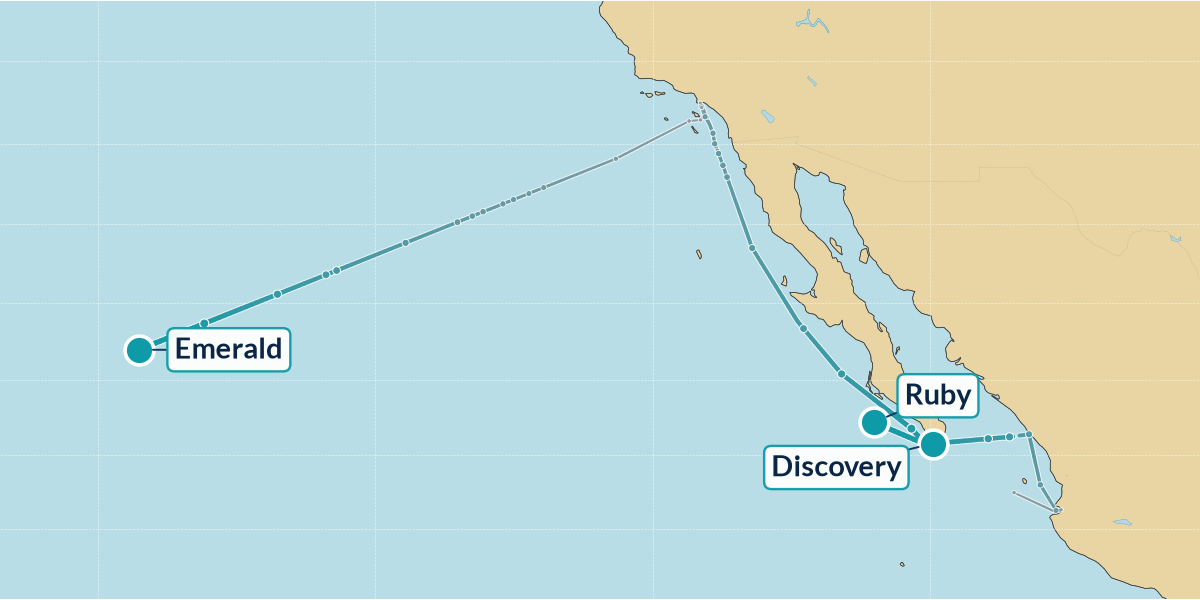
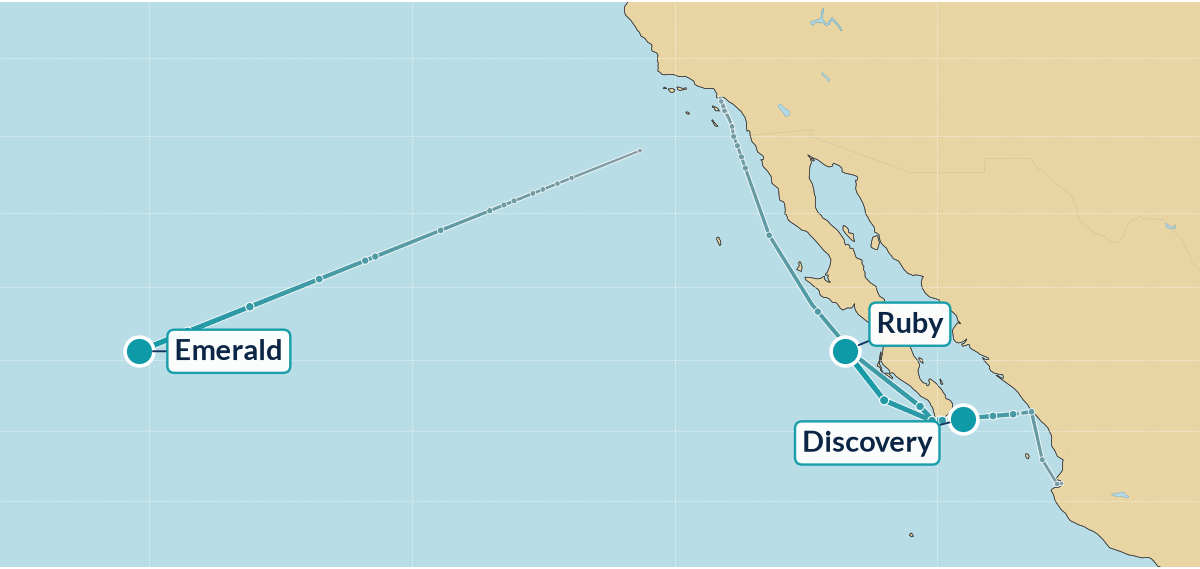
Update 10/19 23:00 PT

diff --git a/index.html b/index.html
@@ -1,48 +1,47 @@
 <!DOCTYPE html><html lang="en"><head><meta charset="utf-8"><meta name="viewport" content="width=device-width, initial-scale=1"><meta http-equiv="refresh" content="1800"><meta name="description" content="Live Princess Cruises fleet tracker"><title>Princess Patter — Monday, October 19, 2026</title></head>
 <body style="margin:0;padding:0;background-color:#dee2e8;">
-<div style="display:none;max-height:0;overflow:hidden;opacity:0;color:#dee2e8;font-size:1px;line-height:1px;">Monday, October 19, 2026 — 4:00pm PT | 17 ships | 14 at sea, 3 in port</div>
+<div style="display:none;max-height:0;overflow:hidden;opacity:0;color:#dee2e8;font-size:1px;line-height:1px;">Monday, October 19, 2026 — 11:00pm PT | 17 ships | 13 at sea, 4 in port</div>
 <table role="presentation" width="100%" cellpadding="0" cellspacing="0" border="0" bgcolor="#dee2e8" style="background-color:#dee2e8;border-collapse:collapse;"><tr><td align="center" style="padding:16px 8px;">
 <table role="presentation" width="100%" cellpadding="0" cellspacing="0" border="0" bgcolor="#fdfdfb" style="width:100%;max-width:900px;background-color:#fdfdfb;border-collapse:collapse;border:1px solid #d6dae0;">
 <tr><td bgcolor="#1d3a6b" align="left" style="background-color:#1d3a6b;padding:24px 28px 24px 28px;"><div style="font-family:Georgia, 'Times New Roman', Times, serif;font-size:40px;line-height:46px;color:#ffffff;letter-spacing:0.5px;"><span style="color:#a8b6e2;">≋</span>&nbsp;Princess Patter</div></td></tr>
-<tr><td style="padding:0;"><table role="presentation" width="100%" cellpadding="0" cellspacing="0" border="0" style="border-collapse:collapse;"><tr><td height="5" bgcolor="#6a5aa8" style="background-color:#6a5aa8;height:5px;font-size:0;line-height:0;width:60%;">&nbsp;</td><td height="5" bgcolor="#2f6db5" style="background-color:#2f6db5;height:5px;font-size:0;line-height:0;width:40%;">&nbsp;</td></tr></table></td></tr><tr><td bgcolor="#1d3a6b" style="background:linear-gradient(#1d3a6b,#2f6db5);padding:10px 16px 14px;text-align:center;"><img src="regal.png?v=202610192206" alt="Regal Princess" style="width:100%;max-width:640px;height:auto;display:block;margin:0 auto;"></td></tr>
+<tr><td style="padding:0;"><table role="presentation" width="100%" cellpadding="0" cellspacing="0" border="0" style="border-collapse:collapse;"><tr><td height="5" bgcolor="#6a5aa8" style="background-color:#6a5aa8;height:5px;font-size:0;line-height:0;width:60%;">&nbsp;</td><td height="5" bgcolor="#2f6db5" style="background-color:#2f6db5;height:5px;font-size:0;line-height:0;width:40%;">&nbsp;</td></tr></table></td></tr><tr><td bgcolor="#1d3a6b" style="background:linear-gradient(#1d3a6b,#2f6db5);padding:10px 16px 14px;text-align:center;"><img src="regal.png?v=202610192300" alt="Regal Princess" style="width:100%;max-width:640px;height:auto;display:block;margin:0 auto;"></td></tr>
 <tr><td style="padding:22px 20px 6px 20px;">
-<div style="font-family:Georgia, 'Times New Roman', Times, serif;font-style:italic;font-size:20px;line-height:26px;color:#2f6db5;">Good afternoon!</div>
+<div style="font-family:Georgia, 'Times New Roman', Times, serif;font-style:italic;font-size:20px;line-height:26px;color:#2f6db5;">Good evening!</div>
 <div style="font-family:Georgia, 'Times New Roman', Times, serif;font-weight:bold;font-size:26px;line-height:32px;color:#1d3a6b;padding-top:6px;">Monday, October 19, 2026</div>
-<div style="font-family:Helvetica, Arial, sans-serif;font-size:16px;line-height:22px;color:#2f6db5;padding-top:4px;">4:00pm PT | 17 ships | 14 at sea, 3 in port</div>
-</td></tr><tr><td style="padding:14px 20px 0 20px;"><div style="font-family:Georgia, 'Times New Roman', Times, serif;font-style:italic;font-weight:bold;font-size:18px;color:#295aa0;padding:0 4px 4px;border-bottom:1px solid #295aa0;">pacific map</div><a href="map.png?v=202610192206"><img src="map.png?v=202610192206" alt="Pacific fleet map" style="width:100%;height:auto;display:block;margin-top:8px;border-radius:12px;border:2px solid #c8dee2;"></a></td></tr>
+<div style="font-family:Helvetica, Arial, sans-serif;font-size:16px;line-height:22px;color:#2f6db5;padding-top:4px;">11:00pm PT | 17 ships | 13 at sea, 4 in port</div>
+</td></tr><tr><td style="padding:14px 20px 0 20px;"><div style="font-family:Georgia, 'Times New Roman', Times, serif;font-style:italic;font-weight:bold;font-size:18px;color:#295aa0;padding:0 4px 4px;border-bottom:1px solid #295aa0;">pacific map</div><a href="map.png?v=202610192300"><img src="map.png?v=202610192300" alt="Pacific fleet map" style="width:100%;height:auto;display:block;margin-top:8px;border-radius:12px;border:2px solid #c8dee2;"></a></td></tr>
 <tr><td style="padding:14px 20px 4px 20px;">
 <table role="presentation" width="100%" cellpadding="0" cellspacing="0" border="0" style="border-collapse:collapse;width:100%;font-family:Helvetica, Arial, sans-serif;font-size:15px;line-height:20px;color:#262c38;">
 <tr bgcolor="#2f6db5" style="background-color:#2f6db5;"><td style="font-size:14px;line-height:18px;font-weight:bold;color:#ffffff;text-align:left;padding:9px 8px;padding-left:10px;" colspan="2">Ship</td><td style="font-size:14px;line-height:18px;font-weight:bold;color:#ffffff;text-align:left;padding:9px 8px;">Where</td><td style="font-size:14px;line-height:18px;font-weight:bold;color:#ffffff;text-align:left;padding:9px 8px;">Next Port</td></tr>
 <tr><td colspan="4" style="padding:14px 4px 4px 4px;border-bottom:1px solid #295aa0;font-family:Georgia, 'Times New Roman', Times, serif;font-style:italic;font-weight:bold;font-size:18px;line-height:22px;color:#295aa0;">canada &amp; new england</td></tr>
-<tr bgcolor="#eef0f3" style="background-color:#eef0f3;"><td width="18" style="padding:7px 0 7px 8px;vertical-align:top;width:18px;color:#1a9a9a;font-size:18px;">&nbsp;</td><td style="padding:7px 8px;vertical-align:top;"><b style="color:#1d3a6b;">Majestic</b></td><td style="padding:7px 8px;vertical-align:top;">Boston <span style="white-space:nowrap;font-size:12px;color:#707884;" title="Forecast high/low">🌙&thinsp;40°</span> <span style="font-size:13px;color:#707884;">(5pm)</span></td><td style="padding:7px 8px;vertical-align:top;">Portland <span style="white-space:nowrap;font-size:12px;color:#707884;" title="Forecast high/low">☁&thinsp;69°/48°</span> <span style="font-size:13px;color:#707884;">(10/20 4am)</span></td></tr>
-<tr bgcolor="#ffffff" style="background-color:#ffffff;"><td width="18" style="padding:7px 0 7px 8px;vertical-align:top;width:18px;color:#1a9a9a;font-size:18px;">&nbsp;</td><td style="padding:7px 8px;vertical-align:top;"><b style="color:#1d3a6b;">Sapphire</b></td><td style="padding:7px 8px;vertical-align:top;">At Sea <span style="white-space:nowrap;font-size:12px;color:#707884;" title="Forecast high/low">☁&thinsp;48°</span> <span style="font-size:12px;color:#707884;"><span style="white-space:nowrap;">🌊 1 ft</span> &middot; <span style="white-space:nowrap;">💨 SW 11 kt</span> &middot; <span style="white-space:nowrap;">🚢 20.4 kn</span></span></td><td style="padding:7px 8px;vertical-align:top;">Saguenay <span style="white-space:nowrap;font-size:12px;color:#707884;" title="Forecast high/low">☁&thinsp;47°/31°</span> <span style="font-size:13px;color:#707884;">(10/21 5am)</span></td></tr>
+<tr bgcolor="#eef0f3" style="background-color:#eef0f3;"><td width="18" style="padding:7px 0 7px 8px;vertical-align:top;width:18px;color:#1a9a9a;font-size:18px;">&nbsp;</td><td style="padding:7px 8px;vertical-align:top;"><b style="color:#1d3a6b;">Majestic</b></td><td style="padding:7px 8px;vertical-align:top;">At Sea <span style="white-space:nowrap;font-size:12px;color:#707884;" title="Forecast high/low">🌙&thinsp;52°</span> <span style="font-size:12px;color:#707884;"><span style="white-space:nowrap;">🌊 5 ft</span> &middot; <span style="white-space:nowrap;">💨 N 10 kt</span> &middot; <span style="white-space:nowrap;">🚢 11.5 kn</span></span></td><td style="padding:7px 8px;vertical-align:top;">Portland <span style="white-space:nowrap;font-size:12px;color:#707884;" title="Forecast high/low">☁&thinsp;69°/48°</span> <span style="font-size:13px;color:#707884;">(10/20 4am)</span></td></tr>
+<tr bgcolor="#ffffff" style="background-color:#ffffff;"><td width="18" style="padding:7px 0 7px 8px;vertical-align:top;width:18px;color:#1a9a9a;font-size:18px;">&nbsp;</td><td style="padding:7px 8px;vertical-align:top;"><b style="color:#1d3a6b;">Sapphire</b></td><td style="padding:7px 8px;vertical-align:top;">At Sea <span style="white-space:nowrap;font-size:12px;color:#707884;" title="Forecast high/low">🌙&thinsp;47°</span> <span style="font-size:12px;color:#707884;"><span style="white-space:nowrap;">🌊 5 ft</span> &middot; <span style="white-space:nowrap;">💨 SW 18 kt</span> &middot; <span style="white-space:nowrap;">🚢 20.4 kn</span></span></td><td style="padding:7px 8px;vertical-align:top;">Saguenay <span style="white-space:nowrap;font-size:12px;color:#707884;" title="Forecast high/low">☁&thinsp;47°/31°</span> <span style="font-size:13px;color:#707884;">(10/21 5am)</span></td></tr>
 <tr><td colspan="4" style="padding:14px 4px 4px 4px;border-bottom:1px solid #295aa0;font-family:Georgia, 'Times New Roman', Times, serif;font-style:italic;font-weight:bold;font-size:18px;line-height:22px;color:#295aa0;">caribbean</td></tr>
-<tr bgcolor="#eef0f3" style="background-color:#eef0f3;"><td width="18" style="padding:7px 0 7px 8px;vertical-align:top;width:18px;color:#1a9a9a;font-size:18px;">&nbsp;</td><td style="padding:7px 8px;vertical-align:top;"><b style="color:#1d3a6b;">Caribbean</b></td><td style="padding:7px 8px;vertical-align:top;">At Sea <span style="white-space:nowrap;font-size:12px;color:#707884;" title="Forecast high/low">☁&thinsp;82°</span> <span style="font-size:12px;color:#707884;"><span style="white-space:nowrap;">🌊 6 ft</span> &middot; <span style="white-space:nowrap;">💨 NE 14 kt</span> &middot; <span style="white-space:nowrap;">🚢 14.7 kn</span></span></td><td style="padding:7px 8px;vertical-align:top;">Oranjestad <span style="white-space:nowrap;font-size:12px;color:#707884;" title="Forecast high/low">⛈&thinsp;88°/82°</span> <span style="font-size:13px;color:#707884;">(10/22 6am)</span></td></tr>
-<tr bgcolor="#ffffff" style="background-color:#ffffff;"><td width="18" style="padding:7px 0 7px 8px;vertical-align:top;width:18px;color:#1a9a9a;font-size:18px;">&nbsp;</td><td style="padding:7px 8px;vertical-align:top;"><b style="color:#1d3a6b;">Coral</b></td><td style="padding:7px 8px;vertical-align:top;">At Sea <span style="white-space:nowrap;font-size:12px;color:#707884;" title="Forecast high/low">🌙&thinsp;83°</span> <span style="font-size:12px;color:#707884;"><span style="white-space:nowrap;">🌊 2 ft</span> &middot; <span style="white-space:nowrap;">💨 SE 7 kt</span> &middot; <span style="white-space:nowrap;">🚢 0.0 kn</span></span></td><td style="padding:7px 8px;vertical-align:top;">Fort-de-France <span style="white-space:nowrap;font-size:12px;color:#707884;" title="Forecast high/low">🌦&thinsp;89°/77°</span> <span style="font-size:13px;color:#707884;">(10/20 5am)</span></td></tr>
-<tr bgcolor="#eef0f3" style="background-color:#eef0f3;"><td width="18" style="padding:7px 0 7px 8px;vertical-align:top;width:18px;color:#1a9a9a;font-size:18px;">&nbsp;</td><td style="padding:7px 8px;vertical-align:top;"><b style="color:#1d3a6b;">Regal</b></td><td style="padding:7px 8px;vertical-align:top;">At Sea <span style="white-space:nowrap;font-size:12px;color:#707884;" title="Forecast high/low">🌙&thinsp;83°</span> <span style="font-size:12px;color:#707884;"><span style="white-space:nowrap;">🌊 9 ft</span> &middot; <span style="white-space:nowrap;">💨 NE 13 kt</span> &middot; <span style="white-space:nowrap;">🚢 0.8 kn</span></span></td><td style="padding:7px 8px;vertical-align:top;">Amber Cove <span style="font-size:13px;color:#707884;">(10/21 5am)</span></td></tr>
-<tr bgcolor="#ffffff" style="background-color:#ffffff;"><td width="18" style="padding:7px 0 7px 8px;vertical-align:top;width:18px;color:#1a9a9a;font-size:18px;">&nbsp;</td><td style="padding:7px 8px;vertical-align:top;"><b style="color:#1d3a6b;">Star</b></td><td style="padding:7px 8px;vertical-align:top;">At Sea <span style="white-space:nowrap;font-size:12px;color:#707884;" title="Forecast high/low">🌙&thinsp;81°</span> <span style="font-size:12px;color:#707884;"><span style="white-space:nowrap;">🌊 4 ft</span> &middot; <span style="white-space:nowrap;">💨 NE 15 kt</span> &middot; <span style="white-space:nowrap;">🚢 15.4 kn</span></span></td><td style="padding:7px 8px;vertical-align:top;">Fort Lauderdale <span style="white-space:nowrap;font-size:12px;color:#707884;" title="Forecast high/low">🌦&thinsp;80°/70°</span> <span style="font-size:13px;color:#707884;">(10/20 3am)</span></td></tr>
+<tr bgcolor="#eef0f3" style="background-color:#eef0f3;"><td width="18" style="padding:7px 0 7px 8px;vertical-align:top;width:18px;color:#1a9a9a;font-size:18px;">&nbsp;</td><td style="padding:7px 8px;vertical-align:top;"><b style="color:#1d3a6b;">Caribbean</b></td><td style="padding:7px 8px;vertical-align:top;">At Sea <span style="white-space:nowrap;font-size:12px;color:#707884;" title="Forecast high/low">🌙&thinsp;82°</span> <span style="font-size:12px;color:#707884;"><span style="white-space:nowrap;">🌊 2 ft</span> &middot; <span style="white-space:nowrap;">💨 NE 11 kt</span> &middot; <span style="white-space:nowrap;">🚢 13.3 kn</span></span></td><td style="padding:7px 8px;vertical-align:top;">Oranjestad <span style="white-space:nowrap;font-size:12px;color:#707884;" title="Forecast high/low">⛈&thinsp;88°/82°</span> <span style="font-size:13px;color:#707884;">(10/22 6am)</span></td></tr>
+<tr bgcolor="#ffffff" style="background-color:#ffffff;"><td width="18" style="padding:7px 0 7px 8px;vertical-align:top;width:18px;color:#1a9a9a;font-size:18px;">&nbsp;</td><td style="padding:7px 8px;vertical-align:top;"><b style="color:#1d3a6b;">Coral</b></td><td style="padding:7px 8px;vertical-align:top;">At Sea <span style="white-space:nowrap;font-size:12px;color:#707884;" title="Forecast high/low">🌙&thinsp;83°</span> <span style="font-size:12px;color:#707884;"><span style="white-space:nowrap;">🌊 3 ft</span> &middot; <span style="white-space:nowrap;">💨 ESE 8 kt</span> &middot; <span style="white-space:nowrap;">🚢 0.0 kn</span></span></td><td style="padding:7px 8px;vertical-align:top;">Fort-de-France <span style="white-space:nowrap;font-size:12px;color:#707884;" title="Forecast high/low">🌦&thinsp;89°/77°</span> <span style="font-size:13px;color:#707884;">(10/20 5am)</span></td></tr>
+<tr bgcolor="#eef0f3" style="background-color:#eef0f3;"><td width="18" style="padding:7px 0 7px 8px;vertical-align:top;width:18px;color:#1a9a9a;font-size:18px;">&nbsp;</td><td style="padding:7px 8px;vertical-align:top;"><b style="color:#1d3a6b;">Regal</b></td><td style="padding:7px 8px;vertical-align:top;">At Sea <span style="white-space:nowrap;font-size:12px;color:#707884;" title="Forecast high/low">🌙&thinsp;84°</span> <span style="font-size:12px;color:#707884;"><span style="white-space:nowrap;">🌊 5 ft</span> &middot; <span style="white-space:nowrap;">💨 ENE 10 kt</span> &middot; <span style="white-space:nowrap;">🚢 0.8 kn</span></span></td><td style="padding:7px 8px;vertical-align:top;">Amber Cove <span style="font-size:13px;color:#707884;">(10/21 5am)</span></td></tr>
+<tr bgcolor="#ffffff" style="background-color:#ffffff;"><td width="18" style="padding:7px 0 7px 8px;vertical-align:top;width:18px;color:#1a9a9a;font-size:18px;">&nbsp;</td><td style="padding:7px 8px;vertical-align:top;"><b style="color:#1d3a6b;">Star</b></td><td style="padding:7px 8px;vertical-align:top;">At Sea <span style="white-space:nowrap;font-size:12px;color:#707884;" title="Forecast high/low">🌙&thinsp;81°</span> <span style="font-size:12px;color:#707884;"><span style="white-space:nowrap;">🌊 7 ft</span> &middot; <span style="white-space:nowrap;">💨 NE 19 kt</span> &middot; <span style="white-space:nowrap;">🚢 16.2 kn</span></span></td><td style="padding:7px 8px;vertical-align:top;">Fort Lauderdale <span style="white-space:nowrap;font-size:12px;color:#707884;" title="Forecast high/low">🌦&thinsp;80°/70°</span> <span style="font-size:13px;color:#707884;">(10/20 3am)</span></td></tr>
 <tr><td colspan="4" style="padding:14px 4px 4px 4px;border-bottom:1px solid #295aa0;font-family:Georgia, 'Times New Roman', Times, serif;font-style:italic;font-weight:bold;font-size:18px;line-height:22px;color:#295aa0;">hawaii</td></tr>
-<tr bgcolor="#eef0f3" style="background-color:#eef0f3;"><td width="18" style="padding:7px 0 7px 8px;vertical-align:top;width:18px;color:#1a9a9a;font-size:18px;">&nbsp;</td><td style="padding:7px 8px;vertical-align:top;"><b style="color:#1d3a6b;">Emerald</b></td><td style="padding:7px 8px;vertical-align:top;">At Sea <span style="white-space:nowrap;font-size:12px;color:#707884;" title="Forecast high/low">🌙&thinsp;72°</span> <span style="font-size:12px;color:#707884;"><span style="white-space:nowrap;">🌊 7 ft</span> &middot; <span style="white-space:nowrap;">💨 NE 15 kt</span> &middot; <span style="white-space:nowrap;">🚢 17.0 kn</span></span></td><td style="padding:7px 8px;vertical-align:top;">Hilo <span style="white-space:nowrap;font-size:12px;color:#707884;" title="Forecast high/low">🌦&thinsp;79°/66°</span> <span style="font-size:13px;color:#707884;">(10/22 11am)</span></td></tr>
+<tr bgcolor="#eef0f3" style="background-color:#eef0f3;"><td width="18" style="padding:7px 0 7px 8px;vertical-align:top;width:18px;color:#1a9a9a;font-size:18px;">&nbsp;</td><td style="padding:7px 8px;vertical-align:top;"><b style="color:#1d3a6b;">Emerald</b></td><td style="padding:7px 8px;vertical-align:top;">At Sea <span style="white-space:nowrap;font-size:12px;color:#707884;" title="Forecast high/low">🌙&thinsp;73°</span> <span style="font-size:12px;color:#707884;"><span style="white-space:nowrap;">🌊 7 ft</span> &middot; <span style="white-space:nowrap;">💨 NE 15 kt</span> &middot; <span style="white-space:nowrap;">🚢 17.7 kn</span></span></td><td style="padding:7px 8px;vertical-align:top;">Hilo <span style="white-space:nowrap;font-size:12px;color:#707884;" title="Forecast high/low">🌦&thinsp;79°/66°</span> <span style="font-size:13px;color:#707884;">(10/22 11am)</span></td></tr>
 <tr><td colspan="4" style="padding:14px 4px 4px 4px;border-bottom:1px solid #295aa0;font-family:Georgia, 'Times New Roman', Times, serif;font-style:italic;font-weight:bold;font-size:18px;line-height:22px;color:#295aa0;">mexican riviera</td></tr>
-<tr bgcolor="#eef0f3" style="background-color:#eef0f3;"><td width="18" style="padding:7px 0 7px 8px;vertical-align:top;width:18px;color:#1a9a9a;font-size:18px;">&nbsp;</td><td style="padding:7px 8px;vertical-align:top;"><b style="color:#1d3a6b;">Discovery</b></td><td style="padding:7px 8px;vertical-align:top;">Cabo San Lucas <span style="white-space:nowrap;font-size:12px;color:#707884;" title="Forecast high/low">🌙&thinsp;80°</span> <span style="font-size:13px;color:#707884;">(8pm)</span></td><td style="padding:7px 8px;vertical-align:top;">Mazatlan <span style="white-space:nowrap;font-size:12px;color:#707884;" title="Forecast high/low">☁&thinsp;92°/79°</span> <span style="font-size:13px;color:#707884;">(10/20 8am)</span></td></tr>
-<tr bgcolor="#ffffff" style="background-color:#ffffff;"><td width="18" style="padding:7px 0 7px 8px;vertical-align:top;width:18px;color:#1a9a9a;font-size:18px;">&nbsp;</td><td style="padding:7px 8px;vertical-align:top;"><b style="color:#1d3a6b;">Ruby</b></td><td style="padding:7px 8px;vertical-align:top;">At Sea <span style="white-space:nowrap;font-size:12px;color:#707884;" title="Forecast high/low">🌙&thinsp;80°</span> <span style="font-size:12px;color:#707884;"><span style="white-space:nowrap;">🌊 6 ft</span> &middot; <span style="white-space:nowrap;">💨 NW 11 kt</span> &middot; <span style="white-space:nowrap;">🚢 18.2 kn</span></span></td><td style="padding:7px 8px;vertical-align:top;">Ensenada <span style="white-space:nowrap;font-size:12px;color:#707884;" title="Forecast high/low">☁&thinsp;72°/60°</span> <span style="font-size:13px;color:#707884;">(~10/21)</span></td></tr>
+<tr bgcolor="#eef0f3" style="background-color:#eef0f3;"><td width="18" style="padding:7px 0 7px 8px;vertical-align:top;width:18px;color:#1a9a9a;font-size:18px;">&nbsp;</td><td style="padding:7px 8px;vertical-align:top;"><b style="color:#1d3a6b;">Discovery</b></td><td style="padding:7px 8px;vertical-align:top;">At Sea <span style="white-space:nowrap;font-size:12px;color:#707884;" title="Forecast high/low">🌙&thinsp;87°</span> <span style="font-size:12px;color:#707884;"><span style="white-space:nowrap;">🌊 6 ft</span> &middot; <span style="white-space:nowrap;">💨 N 11 kt</span> &middot; <span style="white-space:nowrap;">🚢 18.5 kn</span></span></td><td style="padding:7px 8px;vertical-align:top;">Mazatlan <span style="white-space:nowrap;font-size:12px;color:#707884;" title="Forecast high/low">☁&thinsp;92°/79°</span> <span style="font-size:13px;color:#707884;">(10/20 8am)</span></td></tr>
+<tr bgcolor="#ffffff" style="background-color:#ffffff;"><td width="18" style="padding:7px 0 7px 8px;vertical-align:top;width:18px;color:#1a9a9a;font-size:18px;">&nbsp;</td><td style="padding:7px 8px;vertical-align:top;"><b style="color:#1d3a6b;">Ruby</b></td><td style="padding:7px 8px;vertical-align:top;">At Sea <span style="white-space:nowrap;font-size:12px;color:#707884;" title="Forecast high/low">🌙&thinsp;80°</span> <span style="font-size:12px;color:#707884;"><span style="white-space:nowrap;">🌊 6 ft</span> &middot; <span style="white-space:nowrap;">💨 W 5 kt</span> &middot; <span style="white-space:nowrap;">🚢 18.6 kn</span></span></td><td style="padding:7px 8px;vertical-align:top;">Ensenada <span style="white-space:nowrap;font-size:12px;color:#707884;" title="Forecast high/low">☁&thinsp;72°/60°</span> <span style="font-size:13px;color:#707884;">(~10/21)</span></td></tr>
 <tr><td colspan="4" style="padding:14px 4px 4px 4px;border-bottom:1px solid #295aa0;font-family:Georgia, 'Times New Roman', Times, serif;font-style:italic;font-weight:bold;font-size:18px;line-height:22px;color:#295aa0;">asia</td></tr>
-<tr bgcolor="#eef0f3" style="background-color:#eef0f3;"><td width="18" style="padding:7px 0 7px 8px;vertical-align:top;width:18px;color:#1a9a9a;font-size:18px;">&nbsp;</td><td style="padding:7px 8px;vertical-align:top;"><b style="color:#1d3a6b;">Diamond</b></td><td style="padding:7px 8px;vertical-align:top;">At Sea <span style="white-space:nowrap;font-size:12px;color:#707884;" title="Forecast high/low">☀&thinsp;80°</span> <span style="font-size:12px;color:#707884;"><span style="white-space:nowrap;">🌊 6 ft</span> &middot; <span style="white-space:nowrap;">💨 SW 13 kt</span> &middot; <span style="white-space:nowrap;">🚢 16.6 kn</span></span></td><td style="padding:7px 8px;vertical-align:top;">Nagasaki <span style="white-space:nowrap;font-size:12px;color:#707884;" title="Forecast high/low">⛅&thinsp;80°/70°</span> <span style="font-size:13px;color:#707884;">(10/20 6pm)</span></td></tr>
+<tr bgcolor="#eef0f3" style="background-color:#eef0f3;"><td width="18" style="padding:7px 0 7px 8px;vertical-align:top;width:18px;color:#1a9a9a;font-size:18px;">&nbsp;</td><td style="padding:7px 8px;vertical-align:top;"><b style="color:#1d3a6b;">Diamond</b></td><td style="padding:7px 8px;vertical-align:top;">At Sea <span style="white-space:nowrap;font-size:12px;color:#707884;" title="Forecast high/low">☀&thinsp;81°</span> <span style="font-size:12px;color:#707884;"><span style="white-space:nowrap;">🌊 6 ft</span> &middot; <span style="white-space:nowrap;">💨 SSW 12 kt</span> &middot; <span style="white-space:nowrap;">🚢 15.5 kn</span></span></td><td style="padding:7px 8px;vertical-align:top;">Nagasaki <span style="white-space:nowrap;font-size:12px;color:#707884;" title="Forecast high/low">⛅&thinsp;80°/70°</span> <span style="font-size:13px;color:#707884;">(10/20 6pm)</span></td></tr>
 <tr bgcolor="#ffffff" style="background-color:#ffffff;"><td width="18" style="padding:7px 0 7px 8px;vertical-align:top;width:18px;color:#1a9a9a;font-size:18px;">&nbsp;</td><td style="padding:7px 8px;vertical-align:top;"><b style="color:#1d3a6b;">Royal</b></td><td style="padding:7px 8px;vertical-align:top;">Singapore <span style="font-size:13px;color:#707884;">(Drydock)</span></td><td style="padding:7px 8px;vertical-align:top;">Drydock <span style="font-size:13px;color:#707884;">(to 11/1)</span></td></tr>
 <tr><td colspan="4" style="padding:14px 4px 4px 4px;border-bottom:1px solid #295aa0;font-family:Georgia, 'Times New Roman', Times, serif;font-style:italic;font-weight:bold;font-size:18px;line-height:22px;color:#295aa0;">australia &amp; new zealand</td></tr>
-<tr bgcolor="#eef0f3" style="background-color:#eef0f3;"><td width="18" style="padding:7px 0 7px 8px;vertical-align:top;width:18px;color:#1a9a9a;font-size:18px;">&nbsp;</td><td style="padding:7px 8px;vertical-align:top;"><b style="color:#1d3a6b;">Crown</b></td><td style="padding:7px 8px;vertical-align:top;">At Sea <span style="white-space:nowrap;font-size:12px;color:#707884;" title="Forecast high/low">☀&thinsp;74°</span> <span style="font-size:12px;color:#707884;"><span style="white-space:nowrap;">🌊 7 ft</span> &middot; <span style="white-space:nowrap;">💨 SSW 16 kt</span> &middot; <span style="white-space:nowrap;">🚢 19.7 kn</span></span></td><td style="padding:7px 8px;vertical-align:top;">Broome <span style="white-space:nowrap;font-size:12px;color:#707884;" title="Forecast high/low">☀&thinsp;88°/80°</span> <span style="font-size:13px;color:#707884;">(10/20 7pm)</span></td></tr>
+<tr bgcolor="#eef0f3" style="background-color:#eef0f3;"><td width="18" style="padding:7px 0 7px 8px;vertical-align:top;width:18px;color:#1a9a9a;font-size:18px;">&nbsp;</td><td style="padding:7px 8px;vertical-align:top;"><b style="color:#1d3a6b;">Crown</b></td><td style="padding:7px 8px;vertical-align:top;">At Sea <span style="white-space:nowrap;font-size:12px;color:#707884;" title="Forecast high/low">☀&thinsp;80°</span> <span style="font-size:12px;color:#707884;"><span style="white-space:nowrap;">🌊 7 ft</span> &middot; <span style="white-space:nowrap;">💨 SSW 20 kt</span> &middot; <span style="white-space:nowrap;">🚢 18.5 kn</span></span></td><td style="padding:7px 8px;vertical-align:top;">Broome <span style="white-space:nowrap;font-size:12px;color:#707884;" title="Forecast high/low">☀&thinsp;88°/80°</span> <span style="font-size:13px;color:#707884;">(10/20 7pm)</span></td></tr>
 <tr><td colspan="4" style="padding:14px 4px 4px 4px;border-bottom:1px solid #295aa0;font-family:Georgia, 'Times New Roman', Times, serif;font-style:italic;font-weight:bold;font-size:18px;line-height:22px;color:#295aa0;">mediterranean</td></tr>
-<tr bgcolor="#eef0f3" style="background-color:#eef0f3;"><td width="18" style="padding:7px 0 7px 8px;vertical-align:top;width:18px;color:#1a9a9a;font-size:18px;">&nbsp;</td><td style="padding:7px 8px;vertical-align:top;"><b style="color:#1d3a6b;">Enchanted</b></td><td style="padding:7px 8px;vertical-align:top;">At Sea <span style="white-space:nowrap;font-size:12px;color:#707884;" title="Forecast high/low">☁&thinsp;71°</span> <span style="font-size:12px;color:#707884;"><span style="white-space:nowrap;">🌊 2 ft</span> &middot; <span style="white-space:nowrap;">💨 SE 11 kt</span> &middot; <span style="white-space:nowrap;">🚢 18.1 kn</span></span></td><td style="padding:7px 8px;vertical-align:top;">Civitavecchia <span style="white-space:nowrap;font-size:12px;color:#707884;" title="Forecast high/low">🌧&thinsp;73°/63°</span> <span style="font-size:13px;color:#707884;">(10/19 9pm)</span></td></tr>
-<tr bgcolor="#ffffff" style="background-color:#ffffff;"><td width="18" style="padding:7px 0 7px 8px;vertical-align:top;width:18px;color:#1a9a9a;font-size:18px;">&nbsp;</td><td style="padding:7px 8px;vertical-align:top;"><b style="color:#1d3a6b;">Sun</b></td><td style="padding:7px 8px;vertical-align:top;">At Sea <span style="white-space:nowrap;font-size:12px;color:#707884;" title="Forecast high/low">☀&thinsp;69°</span> <span style="font-size:12px;color:#707884;"><span style="white-space:nowrap;">🌊 0 ft</span> &middot; <span style="white-space:nowrap;">💨 NNW 2 kt</span> &middot; <span style="white-space:nowrap;">🚢 20.0 kn</span></span></td><td style="padding:7px 8px;vertical-align:top;">Chania <span style="white-space:nowrap;font-size:12px;color:#707884;" title="Forecast high/low">☁&thinsp;73°/57°</span> <span style="font-size:13px;color:#707884;">(10/19 10pm)</span></td></tr>
+<tr bgcolor="#eef0f3" style="background-color:#eef0f3;"><td width="18" style="padding:7px 0 7px 8px;vertical-align:top;width:18px;color:#1a9a9a;font-size:18px;">&nbsp;</td><td style="padding:7px 8px;vertical-align:top;"><b style="color:#1d3a6b;">Enchanted</b></td><td style="padding:7px 8px;vertical-align:top;">Civitavecchia <span style="white-space:nowrap;font-size:12px;color:#707884;" title="Forecast high/low">⛅&thinsp;65°</span> <span style="font-size:13px;color:#707884;">(10/20 9am)</span></td><td style="padding:7px 8px;vertical-align:top;">Alghero <span style="white-space:nowrap;font-size:12px;color:#707884;" title="Forecast high/low">⛈&thinsp;81°/62°</span> <span style="font-size:13px;color:#707884;">(10/20 11pm)</span></td></tr>
+<tr bgcolor="#ffffff" style="background-color:#ffffff;"><td width="18" style="padding:7px 0 7px 8px;vertical-align:top;width:18px;color:#1a9a9a;font-size:18px;">&nbsp;</td><td style="padding:7px 8px;vertical-align:top;"><b style="color:#1d3a6b;">Island</b></td><td style="padding:7px 8px;vertical-align:top;">Palma <span style="white-space:nowrap;font-size:12px;color:#707884;" title="Forecast high/low">🌧&thinsp;63°</span> <span style="font-size:13px;color:#707884;">(10/20 9am)</span></td><td style="padding:7px 8px;vertical-align:top;">Barcelona <span style="white-space:nowrap;font-size:12px;color:#707884;" title="Forecast high/low">☁&thinsp;69°/57°</span> <span style="font-size:13px;color:#707884;">(10/20 10pm)</span></td></tr>
+<tr bgcolor="#eef0f3" style="background-color:#eef0f3;"><td width="18" style="padding:7px 0 7px 8px;vertical-align:top;width:18px;color:#1a9a9a;font-size:18px;">&nbsp;</td><td style="padding:7px 8px;vertical-align:top;"><b style="color:#1d3a6b;">Sun</b></td><td style="padding:7px 8px;vertical-align:top;">Chania <span style="white-space:nowrap;font-size:12px;color:#707884;" title="Forecast high/low">☀&thinsp;60°</span> <span style="font-size:13px;color:#707884;">(10/20 8am)</span></td><td style="padding:7px 8px;vertical-align:top;">Kusadasi <span style="white-space:nowrap;font-size:12px;color:#707884;" title="Forecast high/low">☁&thinsp;72°/57°</span> <span style="font-size:13px;color:#707884;">(10/21 9pm)</span></td></tr>
 <tr><td colspan="4" style="padding:14px 4px 4px 4px;border-bottom:1px solid #295aa0;font-family:Georgia, 'Times New Roman', Times, serif;font-style:italic;font-weight:bold;font-size:18px;line-height:22px;color:#295aa0;">northern europe</td></tr>
-<tr bgcolor="#eef0f3" style="background-color:#eef0f3;"><td width="18" style="padding:7px 0 7px 8px;vertical-align:top;width:18px;color:#1a9a9a;font-size:18px;">&nbsp;</td><td style="padding:7px 8px;vertical-align:top;"><b style="color:#1d3a6b;">Sky</b></td><td style="padding:7px 8px;vertical-align:top;">At Sea <span style="white-space:nowrap;font-size:12px;color:#707884;" title="Forecast high/low">☁&thinsp;52°</span> <span style="font-size:12px;color:#707884;"><span style="white-space:nowrap;">🌊 12 ft</span> &middot; <span style="white-space:nowrap;">💨 S 22 kt</span> &middot; <span style="white-space:nowrap;">🚢 16.6 kn</span></span></td><td style="padding:7px 8px;vertical-align:top;">Molde <span style="white-space:nowrap;font-size:12px;color:#707884;" title="Forecast high/low">☀&thinsp;50°/38°</span> <span style="font-size:13px;color:#707884;">(10/19 11pm)</span></td></tr>
+<tr bgcolor="#eef0f3" style="background-color:#eef0f3;"><td width="18" style="padding:7px 0 7px 8px;vertical-align:top;width:18px;color:#1a9a9a;font-size:18px;">&nbsp;</td><td style="padding:7px 8px;vertical-align:top;"><b style="color:#1d3a6b;">Sky</b></td><td style="padding:7px 8px;vertical-align:top;">At Sea <span style="white-space:nowrap;font-size:12px;color:#707884;" title="Forecast high/low">🌙&thinsp;45°</span> <span style="font-size:12px;color:#707884;"><span style="white-space:nowrap;">🌊 7 ft</span> &middot; <span style="white-space:nowrap;">💨 NE 5 kt</span> &middot; <span style="white-space:nowrap;">🚢 15.5 kn</span></span></td><td style="padding:7px 8px;vertical-align:top;">Molde <span style="white-space:nowrap;font-size:12px;color:#707884;" title="Forecast high/low">☀&thinsp;50°/38°</span> <span style="font-size:13px;color:#707884;">(10/19 11pm)</span></td></tr>
 <tr><td colspan="4" style="padding:14px 4px 4px 4px;border-bottom:1px solid #295aa0;font-family:Georgia, 'Times New Roman', Times, serif;font-style:italic;font-weight:bold;font-size:18px;line-height:22px;color:#295aa0;">tahiti &amp; south pacific</td></tr>
-<tr bgcolor="#eef0f3" style="background-color:#eef0f3;"><td width="18" style="padding:7px 0 7px 8px;vertical-align:top;width:18px;color:#1a9a9a;font-size:18px;">&nbsp;</td><td style="padding:7px 8px;vertical-align:top;"><b style="color:#1d3a6b;">Grand</b></td><td style="padding:7px 8px;vertical-align:top;">At Sea <span style="white-space:nowrap;font-size:12px;color:#707884;" title="Forecast high/low">☀&thinsp;83°</span> <span style="font-size:12px;color:#707884;"><span style="white-space:nowrap;">🌊 6 ft</span> &middot; <span style="white-space:nowrap;">💨 SSE 9 kt</span> &middot; <span style="white-space:nowrap;">🚢 18.0 kn</span></span></td><td style="padding:7px 8px;vertical-align:top;">Apia <span style="white-space:nowrap;font-size:12px;color:#707884;" title="Forecast high/low">🌦&thinsp;83°/72°</span> <span style="font-size:13px;color:#707884;">(10/20 12pm)</span></td></tr>
-<tr><td colspan="4" style="padding:14px 4px 4px 4px;border-bottom:1px solid #295aa0;font-family:Georgia, 'Times New Roman', Times, serif;font-style:italic;font-weight:bold;font-size:18px;line-height:22px;color:#295aa0;">transatlantic</td></tr>
-<tr bgcolor="#eef0f3" style="background-color:#eef0f3;"><td width="18" style="padding:7px 0 7px 8px;vertical-align:top;width:18px;color:#1a9a9a;font-size:18px;">&nbsp;</td><td style="padding:7px 8px;vertical-align:top;"><b style="color:#1d3a6b;">Island</b></td><td style="padding:7px 8px;vertical-align:top;">At Sea <span style="white-space:nowrap;font-size:12px;color:#707884;" title="Forecast high/low">⛈&thinsp;68°</span> <span style="font-size:12px;color:#707884;"><span style="white-space:nowrap;">🌊 2 ft</span> &middot; <span style="white-space:nowrap;">💨 WNW 6 kt</span> &middot; <span style="white-space:nowrap;">🚢 14.3 kn</span></span></td><td style="padding:7px 8px;vertical-align:top;">Palma <span style="white-space:nowrap;font-size:12px;color:#707884;" title="Forecast high/low">⛈&thinsp;70°/62°</span> <span style="font-size:13px;color:#707884;">(10/19 11pm)</span></td></tr>
+<tr bgcolor="#eef0f3" style="background-color:#eef0f3;"><td width="18" style="padding:7px 0 7px 8px;vertical-align:top;width:18px;color:#1a9a9a;font-size:18px;">&nbsp;</td><td style="padding:7px 8px;vertical-align:top;"><b style="color:#1d3a6b;">Grand</b></td><td style="padding:7px 8px;vertical-align:top;">At Sea <span style="white-space:nowrap;font-size:12px;color:#707884;" title="Forecast high/low">🌙&thinsp;80°</span> <span style="font-size:12px;color:#707884;"><span style="white-space:nowrap;">🌊 7 ft</span> &middot; <span style="white-space:nowrap;">💨 SE 15 kt</span> &middot; <span style="white-space:nowrap;">🚢 17.9 kn</span></span></td><td style="padding:7px 8px;vertical-align:top;">Apia <span style="white-space:nowrap;font-size:12px;color:#707884;" title="Forecast high/low">🌦&thinsp;83°/72°</span> <span style="font-size:13px;color:#707884;">(10/20 12pm)</span></td></tr>
 </table>
 <div style="font-family:Helvetica, Arial, sans-serif;font-size:13px;line-height:18px;color:#707884;padding:8px 4px 0 4px;"><span style="color:#d6a214;">&#9733;</span> = maiden call (a ship’s first-ever visit to that port)<br>Maiden calls ahead: <b style="color:#966c00;">Star – Celebration Key 11/1</b></div>
 </td></tr>
 <tr><td align="center" style="padding:22px 20px 6px 20px;font-family:Georgia, 'Times New Roman', Times, serif;font-style:italic;font-size:17px;line-height:24px;color:#295aa0;text-align:center;">“Bon voyage!”</td></tr>
-<tr><td align="center" style="padding:2px 20px 24px 20px;font-family:Helvetica, Arial, sans-serif;font-size:12px;line-height:18px;color:#707884;text-align:center;">Fleet positions from Pavlus AIS plus published schedules. Dates/times PT; ~ = AIS estimate.<br>Page updated 10/19/26 10:06pm PT after each fleet check-in.</td></tr>
+<tr><td align="center" style="padding:2px 20px 24px 20px;font-family:Helvetica, Arial, sans-serif;font-size:12px;line-height:18px;color:#707884;text-align:center;">Fleet positions from Pavlus AIS plus published schedules. Dates/times PT; ~ = AIS estimate.<br>Page updated 10/19/26 11:00pm PT after each fleet check-in.</td></tr>
 </table></td></tr></table></body></html>
